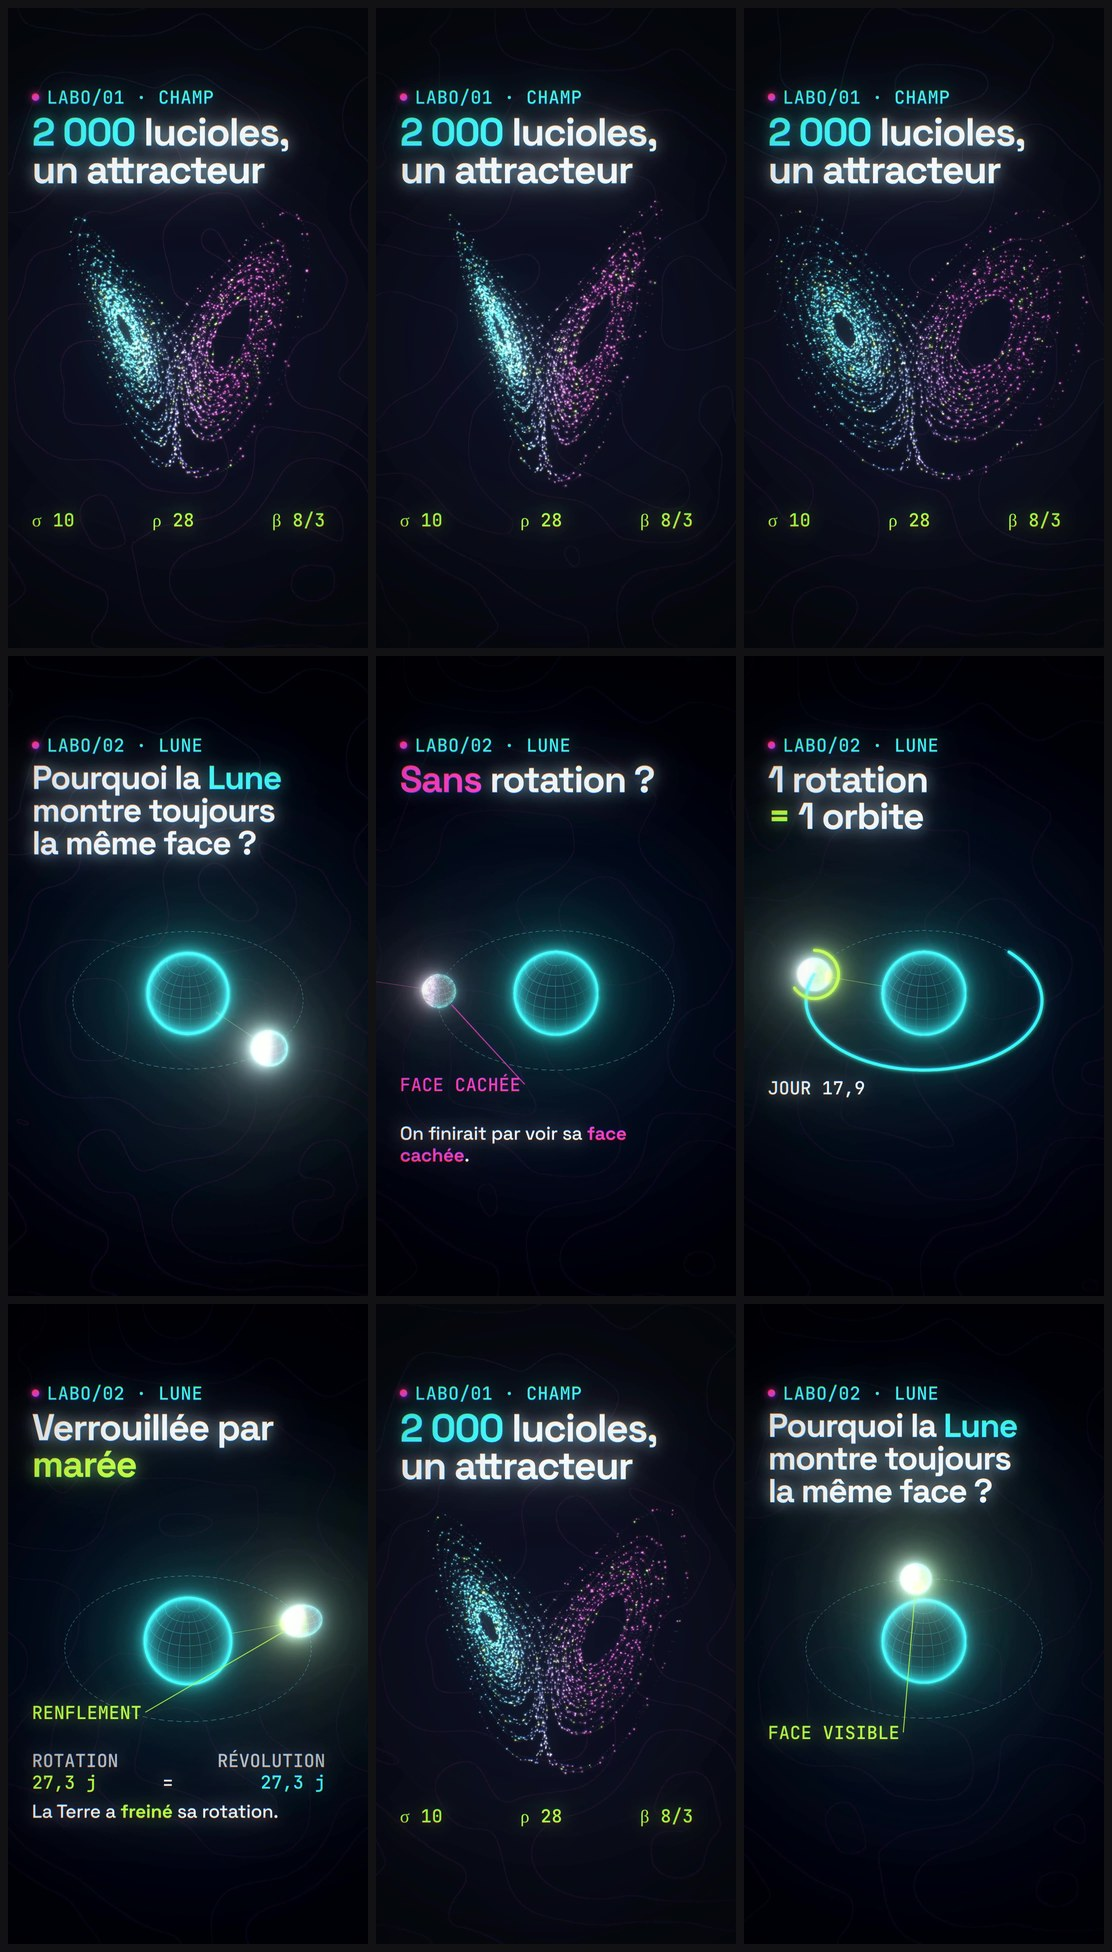
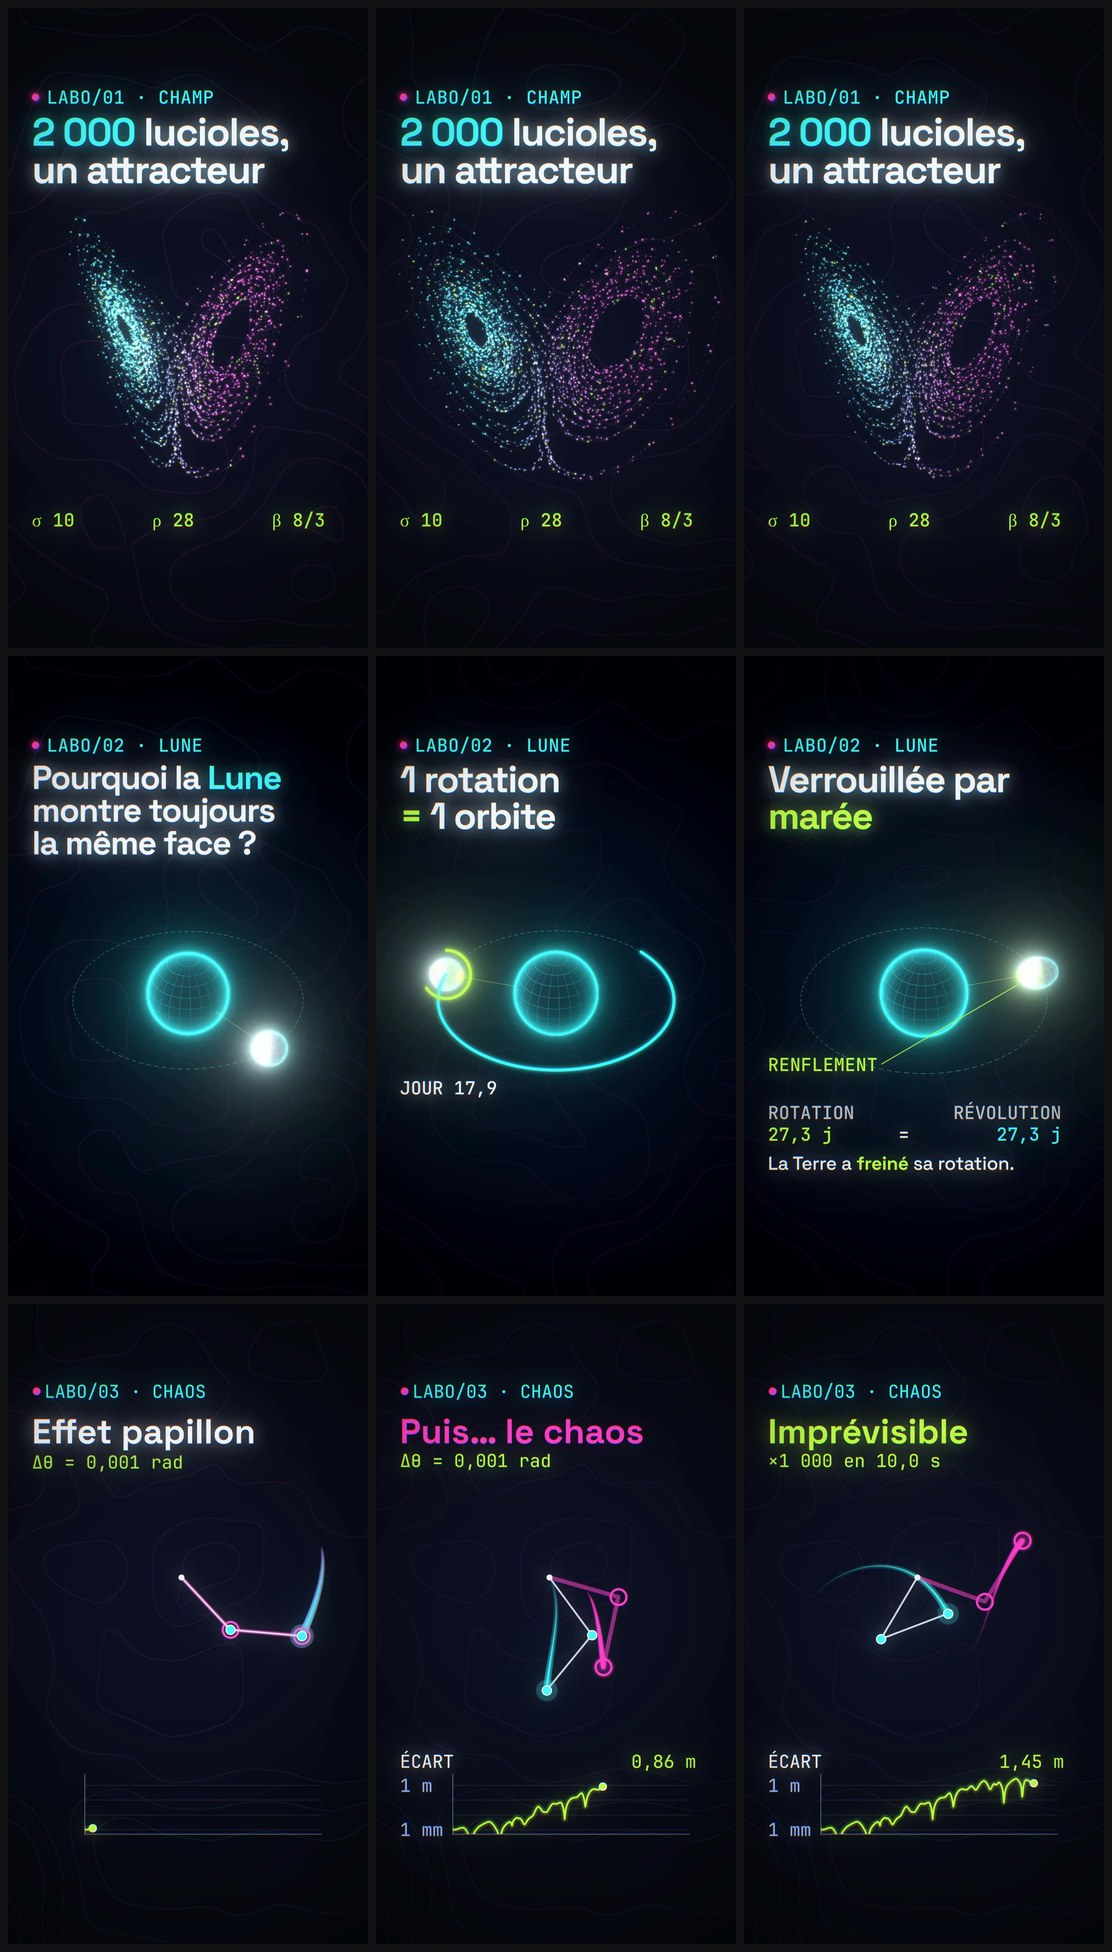
3e short neon-lab (Matplotlib): L'effet papillon, double pendule
Claude-Session: https://claude.ai/code/session_01TtYsRKTYJty9vjy6Ve21Kx

diff --git a/out/identities/neon-lab/identity.md b/out/identities/neon-lab/identity.md
@@ -71,6 +71,7 @@ Haut 220 px, bas 320 px, droite 120 px (et marge gauche 72 px). Tag à 232 px, t
 - **three.js** (+ UnrealBloom) : scènes 3D à objets (sphères, orbites), bloom natif, `ShaderMaterial` pour réutiliser le champ GLSL. ≈ 60 s / 100 frames.
 - **twgl.js** : GLSL brut et nuages de points massifs (20 000 sprites additifs) quand il n'y a pas de maillage ; boucles parfaites faciles (renderAt pur). ≈ 55 s / 100 frames.
 - **OpenCV** : grade signature commun à tous les moteurs (glow, aberration chromatique, vignette), ce qui rend l'identité reconnaissable même quand la scène change de moteur. ≈ 32 s / 100 frames.
+- **Matplotlib** (Agg) : explicatifs « simulation + mesure » 100 % Python — simulation numpy (RK4), schéma 2D à traînes néon (LineCollection à alpha dégressif) et vrai graphe en direct (axe log) ; la lueur vient du grade OpenCV. Polices @fontsource converties woff -> ttf (fontTools). ≈ 53 s / 100 frames.
 
 ## Familles de contenus adaptées / inadaptées
 - **Adaptées** : abstrait (systèmes dynamiques, champs, particules), explicatif scientifique (astronomie, physique, maths), engagement de type « devine le paramètre ».
@@ -79,6 +80,7 @@ Haut 220 px, bas 320 px, droite 120 px (et marge gauche 72 px). Tag à 232 px, t
 ## Shorts de preuve (chemins)
 - `out/shorts/neon-lab__abstrait__champ-de-force-lucioles/` — 12 s, boucle parfaite, twgl.js + OpenCV.
 - `out/shorts/neon-lab__explicatif__lune-meme-face/` — 16 s, three.js + OpenCV (+ champ GLSL partagé).
+- `out/shorts/neon-lab__explicatif__effet-papillon-double-pendule/` — 15 s, Matplotlib + OpenCV (champ de force porté en numpy, LABO/03).
 
 ## Place de la voix off (où elle parlera, débit conseillé, ce que le visuel laisse libre)
 - Voix documentaire posée (Gemini **Orus** pour l'explicatif, **Achernar** calme pour l'abstrait), débit ≤ 2,6 mots/s, une phrase par beat, démarrage 0,1–0,3 s après chaque impulsion.

diff --git a/out/report/notes/neon-lab.md b/out/report/notes/neon-lab.md
@@ -3,3 +3,4 @@
 - 2026-11-03T21:22:08Z — Explicatif : 3 itérations de stills (fond trop clair -> conversion sRGB->linéaire pow 2.2 car OutputPass ; orbite trop large -> R 2.35, caméra 20,6 u, élévation 38° pour éviter l'occultation Lune/Terre ; étiquettes en légende fixe + filet). Titre raccourci 'Pourquoi la Lune montre toujours la même face ?' (ligne 'nous montre toujours' débordait dans la marge droite).
 - 2026-11-03T21:47:26Z — Explicatif livré : rendu three.js 877,7 s / 480 f (182,8 s/100 f) sous contention maximale (attente de slot ~9 min avant démarrage), OpenCV 176,0 s (36,7 s/100 f). check.py OK pour les 2 shorts. Phase 3 écrite (identity.md, tokens.json, poster = still abstrait 8,4 s, contact-sheet 9 frames, recettes). Cartes : twgl.js, three.js, OpenCV. Aucun échec bloquant ; aucune lib remplacée. Temps réel total ≈ 45 min (21:07 -> 21:52 UTC).
 - 2026-11-03T22:26:20Z — Tâche 3 (Matplotlib) : FreeType/Matplotlib ne lit PAS le .woff2 (FT_Open_Face 0x55, brotli absent) -> conversion des .woff @fontsource en .ttf via fontTools (dépendance de Matplotlib, rien installé) + fontManager.addfont : OK, texte dessiné nativement par Matplotlib (pas besoin de textpng). Sous-ensemble grec de JetBrains Mono renommé 'JetBrains Mono Greek' pour le repli Δ θ. Conditions initiales choisies par pré-simulation (1,8/1,8 rad : 1 cm à 5,1 s, 50 cm à 8,8 s, ×1000 à 10,0 s ; dérive d'énergie 1e-9 J).
+- 2026-11-03T22:32:41Z — Short 3 livré : out/shorts/neon-lab__explicatif__effet-papillon-double-pendule/ (15 s). Matplotlib 243,1 s (dessin 237,8 s, 52,8 s/100 f), OpenCV 69,6 s (15,5 s/100 f, CPU peu chargé). check.py OK. Identité mise à jour (identity.md, tokens.json libraries + v1.1.0, recette explicatif, contact-sheet 3×3 sur les 3 shorts), carte neon-lab__matplotlib.json. Temps tâche 3 ≈ 13 min (22:22 -> 22:35 UTC).

diff --git a/out/identities/neon-lab/recipes/explicatif.md b/out/identities/neon-lab/recipes/explicatif.md
@@ -14,3 +14,12 @@ Référence : `out/shorts/neon-lab__explicatif__lune-meme-face/` (16 s, three.js
 - **Exactitude** : faits vérifiés (27,3 j = période sidérale, rotation = révolution) ; échelles et vitesses non réalistes indiquées dans `short.json`.
 - **Budget** : three.js + UnrealBloom ≈ 60 s / 100 frames, + OpenCV ≈ 32 s / 100 frames.
 - **Voix** : Orus (documentaire), une phrase par beat, ≤ 2,6 mots/s, les chiffres restent à l'écran.
+
+## Variante « simulation + mesure » (Matplotlib)
+
+Référence : `out/shorts/neon-lab__explicatif__effet-papillon-double-pendule/` (15 s, Matplotlib + OpenCV).
+
+- **Ouvrir par** : titre de beat 104 px (« Effet papillon »), donnée mono lime sous le titre (`Δθ = 0,001 rad`), le système simulé déjà en mouvement à 0,5 s.
+- **Structurer en** : même grille de beats (0 / 4,5 / 8,25 / 12,0 s) ; zone schéma 640–1250 px ; graphe de mesure 1410–1590 px avec deux repères physiques seulement (`1 mm`, `1 m`, mono 54 px) et la valeur live en lime à droite ; deux objets comparés = cyan (référence, fin, dessus) et magenta (variante, large, dessous) pour rester lisibles superposés.
+- **Fermer par** : titre lime (« Imprévisible ») + la donnée chiffrée tirée de la simulation (`×1 000 en 10,0 s`).
+- **Physique** : RK4 à pas fixe, paramètres et conditions initiales écrits dans `short.json` ; choisir les conditions initiales par pré-simulation pour caler l'événement sur un beat.
